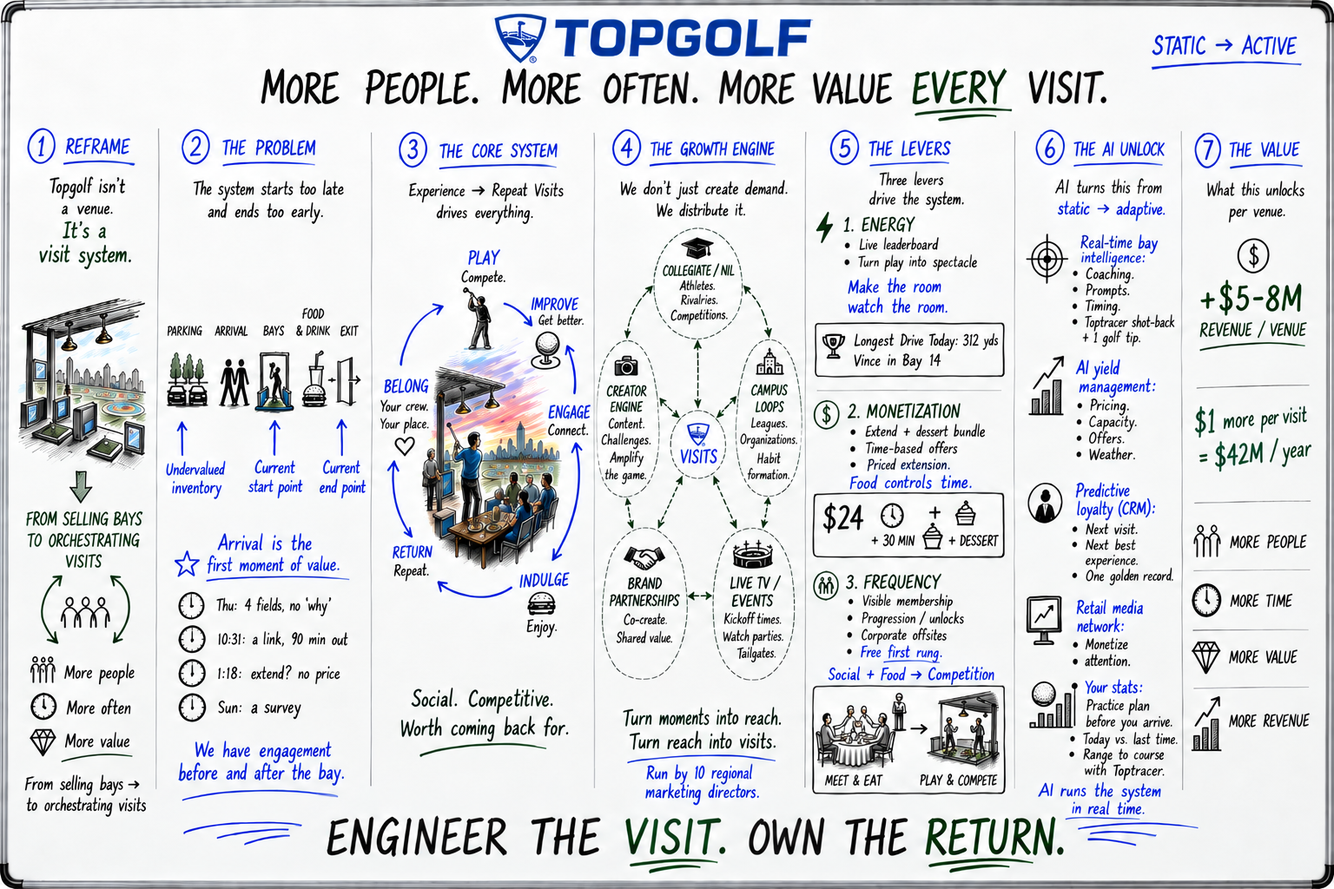
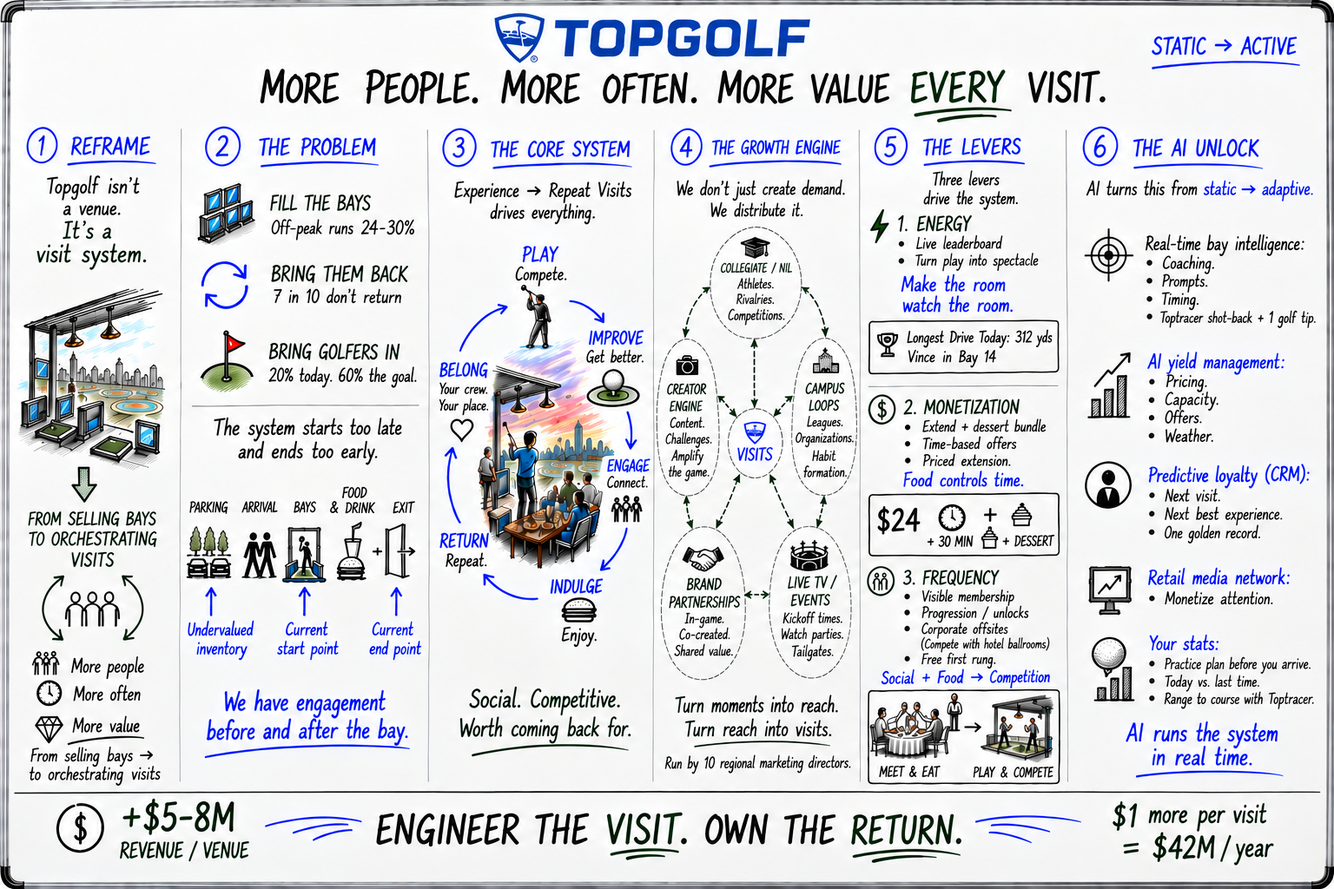
Sync /topgolf pages to the latest TopGolf source files
Rebuilt the brief, booking teardown and day-of teardown from the
current files in CareerMove/TopGolf, overwriting the site copy.
Single head and body, noindex, images extracted to each page's
assets/, copy unchanged. The whiteboard points at the full-quality
Oct26 PNG; old .wb/.april CSS and whiteboard-only tokens removed.
Teardowns keep the top bar back to the brief and across.

diff --git a/topgolf/index.html b/topgolf/index.html
@@ -41,7 +41,6 @@ a{color:var(--accent)}
 .title em{font-style:italic;color:var(--accent)}
 .context{font-size:18px;line-height:1.7;max-width:840px;font-weight:500}
 .context strong{font-weight:600}
-.context-sub{font-size:16px;line-height:1.7;max-width:840px;margin-top:.6rem}
 .creds{font-size:14.5px;line-height:1.75;color:var(--mid);max-width:840px;margin-top:1.1rem}
 .creds strong{color:var(--ink);font-weight:600}
 
@@ -90,19 +89,20 @@ a{color:var(--accent)}
 .callback-body{font-family:var(--serif);font-style:italic;font-size:15.5px;line-height:1.7}
 
 /* whiteboard */
-.board-meta{display:flex;justify-content:space-between;align-items:baseline;flex-wrap:wrap;gap:.5rem;margin-bottom:1.1rem}
-.board-meta-r{font-size:11.5px;color:var(--light);font-style:italic}
-.board{border:0.5px solid var(--border-strong);border-radius:3px;overflow:hidden;box-shadow:0 1px 2px rgba(26,24,20,.04),0 14px 40px rgba(26,24,20,.10);background:#fff;cursor:zoom-in;position:relative;margin:0}
-.board img{width:100%;height:auto;display:block}
+.board{position:relative;margin:0;cursor:zoom-in;border:0.5px solid var(--border-strong);border-radius:3px;overflow:hidden;box-shadow:0 1px 2px rgba(26,24,20,.04),0 14px 40px rgba(26,24,20,.10);background:#fff;max-width:none}
+.board figure,.board-modal figure{margin:0;max-width:none}
+.board img{width:100%;display:block}
+.board figcaption,.board-modal figcaption{display:none}
 .board:focus{outline:2px solid var(--accent);outline-offset:3px}
-.board-expand{position:absolute;top:.85rem;right:.85rem;font-family:var(--sans);font-size:10px;letter-spacing:.12em;text-transform:uppercase;color:#fff;background:rgba(26,24,20,.7);padding:.4rem .7rem;border-radius:2px;pointer-events:none;font-weight:500;opacity:0;transition:opacity .18s ease}
+.board-expand{position:absolute;top:.85rem;right:.85rem;font-size:10px;letter-spacing:.12em;text-transform:uppercase;color:#fff;background:rgba(26,24,20,.7);padding:.4rem .7rem;border-radius:2px;pointer-events:none;opacity:0;transition:opacity .18s}
 .board:hover .board-expand,.board:focus .board-expand{opacity:1}
 .board-modal{border:none;padding:0;background:transparent;max-width:100vw;max-height:100vh;width:100vw;height:100vh;margin:0}
 .board-modal::backdrop{background:rgba(20,18,14,.94)}
-.board-modal-inner{width:100%;height:100%;display:flex;align-items:center;justify-content:center;padding:2.5rem;cursor:zoom-out}
-.board-modal-inner img{max-width:100%;max-height:100%;object-fit:contain;display:block;box-shadow:0 4px 40px rgba(0,0,0,.5)}
-.board-modal-close{position:fixed;top:1.25rem;right:1.5rem;z-index:1;background:rgba(255,255,255,.08);border:0.5px solid rgba(255,255,255,.35);color:#f5f2ec;font-family:var(--sans);font-size:11px;font-weight:500;letter-spacing:.14em;text-transform:uppercase;padding:.55rem .9rem;border-radius:2px;cursor:pointer;transition:background .15s,border-color .15s}
-.board-modal-close:hover{background:rgba(255,255,255,.18);border-color:rgba(255,255,255,.6)}
+.board-modal-inner{width:100%;height:100%;display:flex;align-items:center;justify-content:center;padding:2rem;cursor:zoom-out}
+.board-modal-inner img{max-width:100%;max-height:calc(100vh - 4rem);object-fit:contain;display:block}
+.board-modal-close{position:fixed;top:1.25rem;right:1.5rem;z-index:1;background:rgba(255,255,255,.08);border:0.5px solid rgba(255,255,255,.35);color:#f5f2ec;font-size:11px;letter-spacing:.14em;text-transform:uppercase;padding:.55rem .9rem;border-radius:2px;cursor:pointer}
+.board-meta{display:flex;justify-content:space-between;align-items:baseline;flex-wrap:wrap;gap:.5rem;margin-bottom:1.1rem}
+.board-meta-r{font-size:11.5px;color:var(--light);font-style:italic}
 .board-cap{margin-top:1rem;font-size:13.5px;color:var(--mid);line-height:1.7;max-width:860px}
 
 /* the visit */
@@ -130,6 +130,7 @@ td.could{color:var(--accent)}
 td.mv{white-space:nowrap;font-size:11px;letter-spacing:.08em;text-transform:uppercase;color:var(--accent);font-weight:600}
 .strip{display:grid;grid-template-columns:repeat(6,minmax(0,1fr));gap:14px;margin-top:2.4rem}
 .strip figure{margin:0;min-width:0}
+.strip .lowcrop img{object-position:center 78%}
 .strip img{width:100%;aspect-ratio:3/4;object-fit:cover;object-position:top;display:block;border:0.5px solid var(--border-strong);border-radius:4px;background:var(--warm-white)}
 .evidence-links{margin-top:2rem;font-size:14px;color:var(--mid);max-width:860px}
 .evidence-links a{font-weight:600}
@@ -165,6 +166,9 @@ td.mv{white-space:nowrap;font-size:11px;letter-spacing:.08em;text-transform:uppe
 @media(max-width:768px){.stack-grid{grid-template-columns:1fr}}
 .bg-backs{margin-top:auto;padding-top:.7rem;font-size:10px;letter-spacing:.12em;text-transform:uppercase;color:var(--accent);font-weight:600;border-top:0.5px solid var(--border)}
 
+.humility{padding-block:3.5rem;border-top:0.5px solid var(--border);text-align:center}
+.humility-body{font-family:var(--serif);font-style:italic;font-size:clamp(18px,2.1vw,22px);line-height:1.55;max-width:740px;margin:0 auto}
+.humility-body em{font-style:normal;color:var(--accent);font-weight:600}
 
 .plan-grid{display:grid;grid-template-columns:repeat(3,minmax(0,1fr));border:0.5px solid var(--border);border-radius:3px;overflow:hidden}
 .plan-col{padding:1.7rem 1.6rem 1.9rem;border-right:0.5px solid var(--border);background:var(--warm-white);min-width:0}
@@ -190,6 +194,7 @@ td.mv{white-space:nowrap;font-size:11px;letter-spacing:.08em;text-transform:uppe
 .sig-role{font-size:12px;color:var(--mid)}
 .sig-links{display:flex;gap:1.4rem;margin-top:.7rem;flex-wrap:wrap;justify-content:center;font-size:12px}
 .sig-links a{font-weight:500;color:var(--mid);text-decoration:none;border-bottom:0.5px solid var(--border-strong)}
+.sig-links span{color:var(--mid);user-select:all}
 
 @media(max-width:1060px){
   .strip{grid-template-columns:repeat(3,minmax(0,1fr))}
@@ -212,10 +217,6 @@ td.mv{white-space:nowrap;font-size:11px;letter-spacing:.08em;text-transform:uppe
   .strip{grid-template-columns:repeat(2,minmax(0,1fr))}
   .sig-links{flex-direction:column;gap:.6rem;align-items:center}
 }
-/* fade-in: the script adds .fade, so nothing is hidden without JavaScript */
-.fade{opacity:0;transform:translateY(10px);transition:opacity .7s ease,transform .7s ease}
-.fade.in{opacity:1;transform:none}
-@media (prefers-reduced-motion:reduce){.fade{opacity:1;transform:none;transition:none}}
 </style>
 </head>
 <body>
@@ -237,8 +238,7 @@ td.mv{white-space:nowrap;font-size:11px;letter-spacing:.08em;text-transform:uppe
 
 <section class="hero wrapx">
   <h1 class="title">Engineer the visit. <em>Own the return.</em></h1>
-  <p class="context">Candidate for Chief Commercial Officer. <strong>P&amp;L marketer. Multi-unit retail operator. Builder of systems that know the customer.</strong></p>
-  <p class="context-sub">Today, I’m VP, Brand &amp; Creative at Realtor.com: a 35-person team running $50M of brand spend sitting behind $100M of performance. CMO at FlashParking before that, and operator seats at Tesla, SolarCity, Coca-Cola and Home Depot.</p>
+  <p class="context">Candidate for Chief Commercial Officer. <strong>P&amp;L marketer. Multi-unit retail operator. Builder of systems that know the customer.</strong><br>Today, I’m <strong>VP, Brand &amp; Creative at Realtor.com</strong>: a 35-person team running $50M of brand spend sitting behind $100M of performance. <strong>CMO at FlashParking</strong> before that, and operator seats at Tesla, SolarCity, Coca-Cola and Home Depot.</p>
 </section>
 
 <section class="diagnostic">
@@ -263,8 +263,8 @@ td.mv{white-space:nowrap;font-size:11px;letter-spacing:.08em;text-transform:uppe
       <div class="mover-num">Lever 01 · start here</div>
       <div class="mover-h">Ask why they came, and engage every player</div>
       <div class="mover-jobs">Bring them back · Bring golfers in</div>
-      <div class="mover-b">Add one occasion question at booking, with six distinct options. <strong>Capture every player’s name and number as soon as the reservation is made.</strong> Use the invite as a funnel, push every player into the app, and alert the host when it fails.</div>
-      <div class="mover-saw"><b>What I saw</b>Four booking fields and an accessibility box. My wife’s registration failed three times on mobile web, regardless of which boxes she checked.</div>
+      <div class="mover-b">Add one occasion question at booking, with six distinct options. <strong>Capture every player’s name and number in the same step.</strong> Use the invite as a funnel, push every player into the app, and alert the host when it fails.</div>
+      <div class="mover-saw"><b>What I saw</b>Four booking fields and an accessibility box. My wife’s registration failed three times on mobile web, whatever combination of boxes she checked.</div>
       <dl class="mover-cite"><div><dt>Owner</dt><dd>VP, CRM &amp; Lifecycle</dd></div><div><dt>KPI</dt><dd>Invite completion: sent, opened, registered</dd></div><div><dt>Timing</dt><dd>Live in one region in 90 days</dd></div></dl>
     </div>
     <div class="mover">
@@ -279,7 +279,7 @@ td.mv{white-space:nowrap;font-size:11px;letter-spacing:.08em;text-transform:uppe
       <div class="mover-num">Lever 03</div>
       <div class="mover-h">One offer engine, priced for party size and the weather</div>
       <div class="mover-jobs">Fill the bays · Bring golfers in</div>
-      <div class="mover-b">One offer set, valid today. No coupon locks a booking. Every cancel gets a save. <strong>The price shown per person</strong>, with a dry-day return offer for every player the rain sends in.</div>
+      <div class="mover-b">One offer set, valid today. No coupon locks a booking. <strong>The price shown per person</strong>, with a dry-day return offer for every player the rain sends in.</div>
       <div class="mover-saw"><b>What I saw</b>The site told me five times the bay is built for six. On Saturday the app showed a $45 combo that runs Monday to Thursday.</div>
       <dl class="mover-cite"><div><dt>Owner</dt><dd>VP, Revenue Management</dd></div><div><dt>KPI</dt><dd>Off-peak occupancy</dd></div><div><dt>Timing</dt><dd>Two quarters</dd></div></dl>
     </div>
@@ -303,7 +303,7 @@ td.mv{white-space:nowrap;font-size:11px;letter-spacing:.08em;text-transform:uppe
       <div class="mover-num">Lever 06</div>
       <div class="mover-h">Make live TV and getting better the new news</div>
       <div class="mover-jobs">Bring them back · Bring golfers in</div>
-      <div class="mover-b">Kickoff times and a TV guide in the remote. An event bundle for two in self-serve. <strong>Every shot gets a golf tip from Toptracer.</strong> Run local events through the regional marketing directors.</div>
+      <div class="mover-b">Kickoff times and a TV guide in the remote. An event bundle for two in self-serve. <strong>Every shot shown back with one golf tip from Toptracer.</strong> Run locally through the ten regional marketing directors you’re standing up.</div>
       <div class="mover-saw"><b>What I saw</b>I found my game. The dad at the next table streamed his on his phone. With Toptracer stats on the TV, my first-time player opened YouTube for a lesson.</div>
       <dl class="mover-cite"><div><dt>Owner</dt><dd>VP, Marketing &amp; Media, with Sponsorships &amp; Partnerships and Golf Marketing</dd></div><div><dt>KPI</dt><dd>Golfer share of visits</dd></div><div><dt>Timing</dt><dd>Two quarters</dd></div></dl>
     </div>
@@ -315,21 +315,18 @@ td.mv{white-space:nowrap;font-size:11px;letter-spacing:.08em;text-transform:uppe
     <div class="kicker" style="margin:0">The deeper view</div>
     <div class="board-meta-r">system map, October 2026</div>
   </div>
-  <h2 class="section-h2">The six levers sit on a seven-layer system. The visit filled in panel 2.</h2>
+  <h2 class="section-h2">The six levers sit on one system.</h2>
 
-  <figure class="board" id="board-thumb" tabindex="0" role="button" aria-label="View the whiteboard at full size">
-    <img src="../assets/NG.TG.Whiteboard.Oct26.png" width="1536" height="1024" alt="Whiteboard system map: Topgolf. More people. More often. More value every visit. Seven panels: Reframe, The problem, The core system, The growth engine, The levers, The AI unlock and The value, ending in Engineer the visit. Own the return.">
+  <figure class="board" id="board-thumb" tabindex="0" role="button" aria-label="View the system map at full size">
+    <figure class="boardimg"><img src="../assets/NG.TG.Whiteboard.Oct26.png" alt="Topgolf system map: More people. More often. More value every visit. Six panels from Reframe to the AI unlock, with the value and the line Engineer the visit, own the return."><figcaption></figcaption></figure>
     <span class="board-expand">Click to expand ↗</span>
   </figure>
-  <p class="board-cap">The map runs from what Topgolf is, through the player loop and the levers, to the AI layer that makes the room a yield-managed system. Panel 2 now carries the clock times from Charleston. Panel 3 adds Improve for the golfer. Click or tap the board to see it full size. I’m happy to walk it line by line.</p>
+  <dialog class="board-modal" id="board-modal" aria-label="System map, full size">
+    <button class="board-modal-close" type="button">Close ✕</button>
+    <div class="board-modal-inner"><img id="board-full" alt=""></div>
+  </dialog>
+  <p class="board-cap">The system map runs from what Topgolf is, through the player loop and the levers, to the AI layer that turns the room into a yield-managed system. Panel 2 carries the three jobs. Panel 3 adds Improve for the golfer. I’m happy to walk it line by line.</p>
 </section>
-
-<dialog class="board-modal" id="board-modal" aria-label="Whiteboard, full size">
-  <button class="board-modal-close" type="button" aria-label="Close">Close ✕</button>
-  <div class="board-modal-inner">
-    <img src="../assets/NG.TG.Whiteboard.Oct26.png" alt="">
-  </div>
-</dialog>
 
 <section class="section wrapx">
   <div class="kicker">The visit</div>
@@ -365,7 +362,7 @@ td.mv{white-space:nowrap;font-size:11px;letter-spacing:.08em;text-transform:uppe
         <tr><td>Thu · booking</td><td>Asked my name, phone, email, and whether I need a wheelchair.</td><td class="could">Ask why we’re coming, with six options. Capture every player’s name and number.</td><td class="mv">01</td></tr>
         <tr><td>Thu · sign-in</td><td>Offered it fifth. Then called me Guest and moved me to Atlanta.</td><td class="could">Know me at step one, at the venue I booked and my home location.</td><td class="mv">02</td></tr>
         <tr><td>Thu · pricing</td><td>Told me five times the bay is built for six. Switched off the 60-minute bay.</td><td class="could">Show the price per person, with loyalty and membership value built in.</td><td class="mv">03</td></tr>
-        <tr><td>Thu · discount</td><td>Emailed 25% off. The app said no offers. The code locked the booking, so I had to cancel to change.</td><td class="could">One offer set, valid today. No coupon locks a booking. Every cancel gets a save.</td><td class="mv">03</td></tr>
+        <tr><td>Thu · discount</td><td>Emailed 25% off. The app said no offers. The code locked the booking, so I cancelled.</td><td class="could">One offer set, valid today. No coupon locks a booking.</td><td class="mv">03</td></tr>
         <tr><td>Sat 10:31</td><td>Sent a check-in link, 90 minutes out.</td><td class="could">Sell the occasion early. Invite the group, plan the party and give them control.</td><td class="mv">04</td></tr>
         <tr><td>Sat 10:34</td><td>The second player’s invite: Try Again, no second route.</td><td class="could">Push every player into the app, and alert the host when it fails.</td><td class="mv">01</td></tr>
         <tr><td>Sat 11:54</td><td>A list of TV stations.</td><td class="could">Kickoff times and a TV guide in the remote.</td><td class="mv">06</td></tr>
@@ -380,14 +377,14 @@ td.mv{white-space:nowrap;font-size:11px;letter-spacing:.08em;text-transform:uppe
   </div>
 
   <div class="strip">
-    <figure><img src="assets/1031-check-in-text-lock-screen.jpg" alt="Lock screen at 10:31 with a text notification about checking in for you and your crew, with a link."><figcaption><b>10:31 AM</b> · The check-in text, 90 minutes out.</figcaption></figure>
+    <figure class="lowcrop"><img src="assets/1031-check-in-text-lock-screen.jpg" alt="Lock screen at 10:31 with a text notification about checking in for you and your crew, with a link."><figcaption><b>10:31 AM</b> · The check-in text, 90 minutes out.</figcaption></figure>
     <figure><img src="assets/1034-second-player-try-again.jpg" alt="Phone screen with a yellow exclamation mark and a Try Again label, clock reading 10:34."><figcaption><b>10:34 AM</b> · Try Again, on the second player’s phone.</figcaption></figure>
     <figure><img src="assets/1151-bay-tv-remote-channels.jpg" alt="Topgolf app Bay 111 TV Remote listing seven channels with show titles, ESPN College GameDay highlighted."><figcaption><b>11:51 AM</b> · A list of TV stations. College GameDay on ESPN.</figcaption></figure>
     <figure><img src="assets/1156-playmore-membership-door-sign.jpg" alt="A sign on a glass door reading Play More membership, Members get more: Free Game Play, Free Appetizers, Exclusive Perks, with a Join Today badge."><figcaption><b>11:56 AM</b> · Membership, sold at the door.</figcaption></figure>
     <figure><img src="assets/1209-first-timer-swing-bay-111.jpg" alt="A person in a black top swinging a driver on a turf mat in a Topgolf bay, with the target field beyond and a TV on the wall showing a football game, the game screen and a How to Play tile."><figcaption><b>12:09 PM</b> · Every player wants to get better.</figcaption></figure>
     <figure><img src="assets/1224-flatbread-beer-and-soda.jpg" alt="A pepperoni flatbread on a slate board next to a half-empty glass of beer and a soda, on a granite table."><figcaption><b>12:24 PM</b> · Ordered in the app 12:03 to 12:08. On the table by 12:24.</figcaption></figure>
   </div>
-  <p class="evidence-links">The full evidence, with every frame and timestamp: the <a href="/topgolf/booking/">booking teardown</a> and the <a href="/topgolf/day-of/">day-of teardown</a>.</p>
+  <p class="evidence-links">The full evidence, with every frame and timestamp: the <a href="/topgolf/booking/">booking teardown</a> and the <a href="/topgolf/day-of/">day-of teardown</a>. The teardowns number their findings their own way.</p>
 </section>
 
 <section class="section wrapx">
@@ -395,7 +392,7 @@ td.mv{white-space:nowrap;font-size:11px;letter-spacing:.08em;text-transform:uppe
   <h2 class="section-h2">Six companies. <em>Six disciplines.</em> One operator.</h2>
   <p class="lede">Each is a piece of the Topgolf P&amp;L, and I’ve held a real seat at all six: <strong>brand transformation, category creation, demand generation, occasion-building, retail-as-growth-channel, and venue-floor operations.</strong> Multi-unit retail runs through it: 950 retail locations, 85 Tesla showrooms and service centers, and a store of my own. At Ribbon I owned revenue outright, zero to $1M ARR, acquired by our largest customer.</p>
   <div class="bg-grid">
-    <div class="bg-card"><div class="bg-eyebrow">Realtor.com</div><div class="bg-co">VP, Brand &amp; Creative</div><div class="bg-line">Brand transformation, audience strategy, trust-led response. <strong>5 quarters consecutive YoY revenue growth against Zillow and Homes.com, 3.4× visit share, Effie finalist 2025.</strong> Known users at 45%, heading to 50%. The Reba McEntire campaign made brand spend 25% more efficient. Sold Mission Zero to Veterans United for $1.6M in media.</div></div>
+    <div class="bg-card"><div class="bg-eyebrow">Realtor.com</div><div class="bg-co">VP, Brand &amp; Creative</div><div class="bg-line">Brand transformation, audience strategy, trust-led response. <strong>7 straight quarters of YoY revenue growth against Zillow and Homes.com, 3.4× visit share, Effie finalist 2025.</strong> Known users at 45%, heading to 50%. The Reba McEntire campaign made brand spend 25% more efficient. Sold Mission Zero to Veterans United for $1.6M in media.</div></div>
     <div class="bg-card"><div class="bg-eyebrow">FlashParking</div><div class="bg-co">Chief Marketing Officer</div><div class="bg-line"><strong>Category creation.</strong> Built and named a software category from zero. Drove brand, demand, and pricing power where neither customers nor competitors existed yet. <strong>Inventory that expires, yield management designed for two turns a day, and growth from under 1% to a third of US off-street paid parking.</strong> Connected the garage to the venue, hotel, airport and office around it.</div></div>
     <div class="bg-card"><div class="bg-eyebrow">Tesla</div><div class="bg-co">Head of Energy Marketing &amp; Sales Ops</div><div class="bg-line"><strong>Demand generation, retail partnerships, and category conviction.</strong> Brought Tesla energy products into a national retail channel against entrenched incumbents. The funnel that scaled the category. <strong>85 showrooms and service centers at the Model 3 launch. Attach over 30%.</strong> Wired Salesforce to the production line, so what a reservation holder got depended on where their car was.</div></div>
     <div class="bg-card"><div class="bg-eyebrow">Coca-Cola</div><div class="bg-co">Director, US Brand, then Asia-Pacific Foodservice</div><div class="bg-line">Two sequential Director seats, US Brand, then Asia-Pacific Foodservice. <strong>Brand, retail, occasion-building, and commercial discipline at billion-dollar scale</strong>, across two hemispheres and the full range of brand-to-channel functions. <strong>Grew the flagship brand for the first time in seven years.</strong> Bought and activated CMA Fest.</div></div>
@@ -412,10 +409,14 @@ td.mv{white-space:nowrap;font-size:11px;letter-spacing:.08em;text-transform:uppe
   </div>
 </section>
 
+<section class="humility wrapx">
+  <p class="humility-body">“I’d start by <em>listening to the team,</em> pressure-testing assumptions against the data, and then moving fast where the opportunity is clear.”</p>
+</section>
+
 <section class="section wrapx">
   <div class="kicker">The plan</div>
   <h2 class="section-h2">First 90 days. Month 6. Month 12.</h2>
-  <p class="lede">Specific, sequenced, and biased toward action. Front-loaded to meet private equity timeline expectations.</p>
+  <p class="lede">Specific, sequenced, and biased toward action, but front-loaded with listening so the moves are real, not imported.</p>
   <div class="plan-grid">
     <div class="plan-col">
       <div class="plan-eyebrow">First 90 days</div>
@@ -468,56 +469,16 @@ td.mv{white-space:nowrap;font-size:11px;letter-spacing:.08em;text-transform:uppe
     <div class="sig-links">
       <a href="https://neilgolson.com">neilgolson.com</a>
       <a href="https://linkedin.com/in/neil-golson-3123842">LinkedIn</a>
-      <a href="https://neilgolson.com/assets/Neil-Golson-CMO-Resume.pdf?v=20260427" target="_blank" rel="noopener">Resume</a>
+      <span>neil.golson@gmail.com</span>
     </div>
   </div>
 </section>
 
 <script>
-(function(){
-  if (!('IntersectionObserver' in window)) return;
-  if (window.matchMedia && window.matchMedia('(prefers-reduced-motion: reduce)').matches) return;
-  var els = document.querySelectorAll('.fieldnote-inner, .hero > *, .diagnostic .wrapx > *, .section > *, .close > *');
-  var heard = false;
-  var io = new IntersectionObserver(function(entries){
-    heard = true;
-    entries.forEach(function(e){
-      if (e.isIntersecting) {
-        e.target.classList.add('in');
-        io.unobserve(e.target);
-      }
-    });
-  }, { threshold: 0.08, rootMargin: '0px 0px -40px 0px' });
-  els.forEach(function(el){ el.classList.add('fade'); io.observe(el); });
-  // the observer always reports once on start; if it never does, show everything
-  setTimeout(function(){
-    if (!heard) els.forEach(function(el){ el.classList.add('in'); });
-  }, 1000);
-})();
-
-(function(){
-  var modal = document.getElementById('board-modal');
-  var thumb = document.getElementById('board-thumb');
-  if (!modal || !thumb) return;
-  var closeBtn = modal.querySelector('.board-modal-close');
-  var inner = modal.querySelector('.board-modal-inner');
-  function open(){
-    if (typeof modal.showModal === 'function') modal.showModal();
-    else modal.setAttribute('open','');
-  }
-  function close(){
-    if (typeof modal.close === 'function') modal.close();
-    else modal.removeAttribute('open');
-  }
-  thumb.addEventListener('click', open);
-  thumb.addEventListener('keydown', function(e){
-    if (e.key === 'Enter' || e.key === ' '){ e.preventDefault(); open(); }
-  });
-  closeBtn.addEventListener('click', close);
-  inner.addEventListener('click', function(e){
-    if (e.target === inner || e.target.tagName !== 'IMG') close();
-  });
-})();
+(function(){var m=document.getElementById('board-modal'),t=document.getElementById('board-thumb');if(!m||!t)return;
+function o(){var f=document.getElementById('board-full'),i=t.querySelector('img');if(f&&i&&!f.src)f.src=i.src;if(m.showModal)m.showModal();else m.setAttribute('open','')}function c(){if(m.close)m.close();else m.removeAttribute('open')}
+t.addEventListener('click',o);t.addEventListener('keydown',function(e){if(e.key==='Enter'||e.key===' '){e.preventDefault();o()}});
+m.querySelector('.board-modal-close').addEventListener('click',c);m.querySelector('.board-modal-inner').addEventListener('click',c);})();
 </script>
 
 </body></html>

diff --git a/topgolf/day-of/index.html b/topgolf/day-of/index.html
@@ -690,7 +690,7 @@ table.conf td.v{white-space:nowrap;width:1%}
         </figure>
         <figure>
           <img src="assets/15-lock-screen-10-31-text-notification.jpg" alt="Lock screen at 10:31 with a text notification about checking in for you and your crew, with a link.">
-          <figcaption><b>Lock screen, 10:31 AM</b> &middot; The check-in text.</figcaption>
+          <figcaption><b>Lock screen, 10:31 AM</b> &middot; The check-in text. Top of the message is cropped in the original.</figcaption>
         </figure>
         <figure>
           <img src="assets/16-lock-screen-11-48-text-saying.jpg" alt="Lock screen at 11:48 with a text saying we'll text you your bay number shortly.">
@@ -1184,8 +1184,8 @@ table.conf td.v{white-space:nowrap;width:1%}
 <section>
   <div class="col">
     <p class="eyebrow">What this confirms</p>
-    <h2>Against what I was told, and what I published in May</h2>
-    <p>One visit can&rsquo;t prove any of this. It can agree with a claim, sharpen it, or push back on it. Some of it pushes back on me.</p>
+    <h2>Against what I was told</h2>
+    <p>One visit can&rsquo;t prove any of this. It can agree with a claim, sharpen it, or push back on it.</p>
   </div>
   <div class="scroll">
     <table class="conf">
@@ -1205,18 +1205,8 @@ table.conf td.v{white-space:nowrap;width:1%}
         <tr><td>Pricing, with bay size as the barrier.</td><td>A bay for two worked and spent $111.92. Bay size did not stop us. Price showed up in two other places: the range comparison, and an extension with no price on it. One Saturday noon says nothing about daypart pricing.</td><td class="v"><span class="verdict mix">Complicates</span></td></tr>
         <tr><td>The game panel surfaces golf-forward games higher. Angry Birds ranks tenth.</td><td>In the row I saw, Angry Birds was sixth of seven visible tiles, and we played it until time ran out. It was our favorite game, and it seems to reward low line drives (21). The ranking did not keep us out of it.</td><td class="v"><span class="verdict mix">Complicates</span></td></tr>
 
-        <tr class="grouprow"><td colspan="3">The six levers at neilgolson.com/topgolf, May 2026</td></tr>
-        <tr><td>01 Revenue per bay: F&amp;B attach, add-ons, time-based bundles.</td><td>Right direction. 59% food and drink, a $45 combo shown at 12:16 that, by my note, does not run on Saturdays, an unpriced extension. The May page reads attach as add-ons and bundles. Both beers on this check were sold by a person, the first with a $2 step up. Lever 01 needs a server design as well as an app design.</td><td class="v"><span class="verdict mix">Incomplete</span></td></tr>
-        <tr><td>03 Frequency and loyalty: a multi-tier PlayMore, sequenced behind retention proof.</td><td>I had the order wrong. At the check, the existing tier was pushed to next time. A better script is a cheap fix next to a new tier, and it needs no retention proof first. Build the ladder after the first rung sells.</td><td class="v"><span class="verdict no">Wrong order</span></td></tr>
-        <tr><td>04 Group and corporate events: 3+ bay bookings, sold against hotel ballrooms.</td><td>I aimed at the large end. The leak I saw was one bay wide: an unofficial birthday with, as far as I could see, no event attached (22).</td><td class="v"><span class="verdict mix">Incomplete</span></td></tr>
-        <tr><td>05 Local market activation: sports tie-ins.</td><td>A family in South Carolina gear couldn&rsquo;t get their game in the bay, in South Carolina, on a college football Saturday (22). The lever holds. It starts with the channel list.</td><td class="v"><span class="verdict yes">Sharpens</span></td></tr>
-        <tr><td>06 CRM, data and adaptive ops: a per-player decision engine, in-venue media as inventory.</td><td>An engine needs a record. The record failed at capture (12), and the next bay&rsquo;s party could not get its game on the bay TV (22). Fix capture before decisioning.</td><td class="v"><span class="verdict mix">Sequence</span></td></tr>
-        <tr><td>02 Peak and off-peak utilization.</td><td>Not tested. This was a Saturday noon, a peak slot.</td><td class="v"><span class="verdict">Silent</span></td></tr>
-      </tbody>
+        </tbody>
     </table>
-  </div>
-  <div class="col" style="margin-top:1.6em">
-    <p>Where I was wrong in May: lever 03&rsquo;s order, and lever 01&rsquo;s silence on the server. Where I can&rsquo;t say anything: lever 02, and any number.</p>
   </div>
 </section>
 

diff --git a/topgolf/booking/index.html b/topgolf/booking/index.html
@@ -685,7 +685,7 @@ a:focus-visible,summary:focus-visible{outline:2px solid var(--accent);outline-of
         <p>Three cities, and it committed to the one I had neither chosen nor come from.</p>
         <p>There is nowhere to fix it. I went into the profile looking for a home-venue setting and there isn&rsquo;t one. The app picks your home by wherever you last played, which makes it wrong for anyone who travels and wrong again after every trip. Since the Saturday visit it has been showing me Charleston.</p>
         <p>There is a real signal inside that mistake. An Atlanta player booking Charleston is a traveller, and cross-market play is the first thing a casino group learns to monetise. Topgolf held the fact and spent it on picking the wrong home screen.</p>
-        <p>You described Toptracer and Topgolf as Apple and Android. The same is true of Topgolf signed out and Topgolf signed in.</p>
+        <p>Toptracer and Topgolf have been called Apple and Android. The same is true of Topgolf signed out and Topgolf signed in.</p>
       </div>
       <div class="eshelf">
         <figure>
